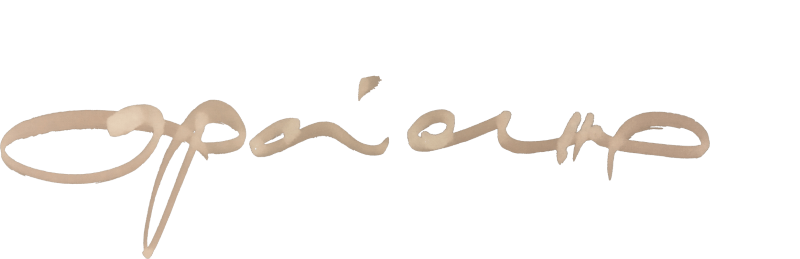
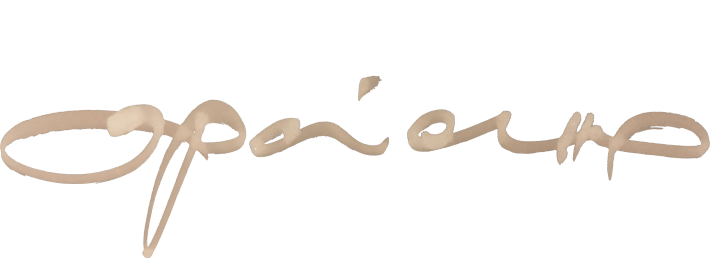
fixed navigation and background image:

diff --git a/partials/header.html b/partials/header.html
@@ -14,7 +14,7 @@
 
       <nav class="nav-menu">
         <ul>
-          <li class="active"><a href="/index.html#hero"><i class="bx bx-home"></i> <span>Home</span></a></li>
+          <li class="active"><a href="/index.html#top-bio"><i class="bx bx-home"></i> <span>Home</span></a></li>
           <li><a href="/#resume"><i class="bx bx-file-blank"></i> <span>Biografija</span></a></li>
           <li><a href="/painting.html"><i class="bx bx-book-content"></i> Slikarstvo</a></li>
           <li><a href="/projects.html"><i class="bx bx-book-content"></i> Arhitektura</a></li>

diff --git a/layouts/index.html b/layouts/index.html
@@ -16,7 +16,7 @@
    <section id="resume" class="resume">
     <div class="container">
 
-      <div class="section-title">
+      <div class="section-title" id="top-bio">
         <h2>Biografija</h2>
       </div>
 
@@ -25,7 +25,7 @@
         <div class="col-lg-6" data-aos="fade-up">
          
           <h3 class="resume-title">Ukratko</h3>            
-            <div id="education">
+            <div id="basic">
                 {{#marked data.fields.basic}}{{/marked}}              
             </div>   
           </div>     

diff --git a/assets/css/style.css b/assets/css/style.css
@@ -1148,12 +1148,23 @@ img.lightbox:hover{
   font-size: 0.8rem;
 }
 
+.hero-container{
+  
+  display:flex;
+  justify-content: center;
+  align-items: center;
+}
 
+.signature{
+  
+  margin:0 auto;
+
+}
 
 @media (min-width: 1199px) {
   .signature{
 
-    transform: translateX(150px);
+    /*transform: translateX(150px);*/
       }
   
 }
@@ -1161,7 +1172,7 @@ img.lightbox:hover{
 @media (max-width: 800px) {
   .signature{
  
-    max-width:500px;
+    max-width:80%;
       }
   
 }
